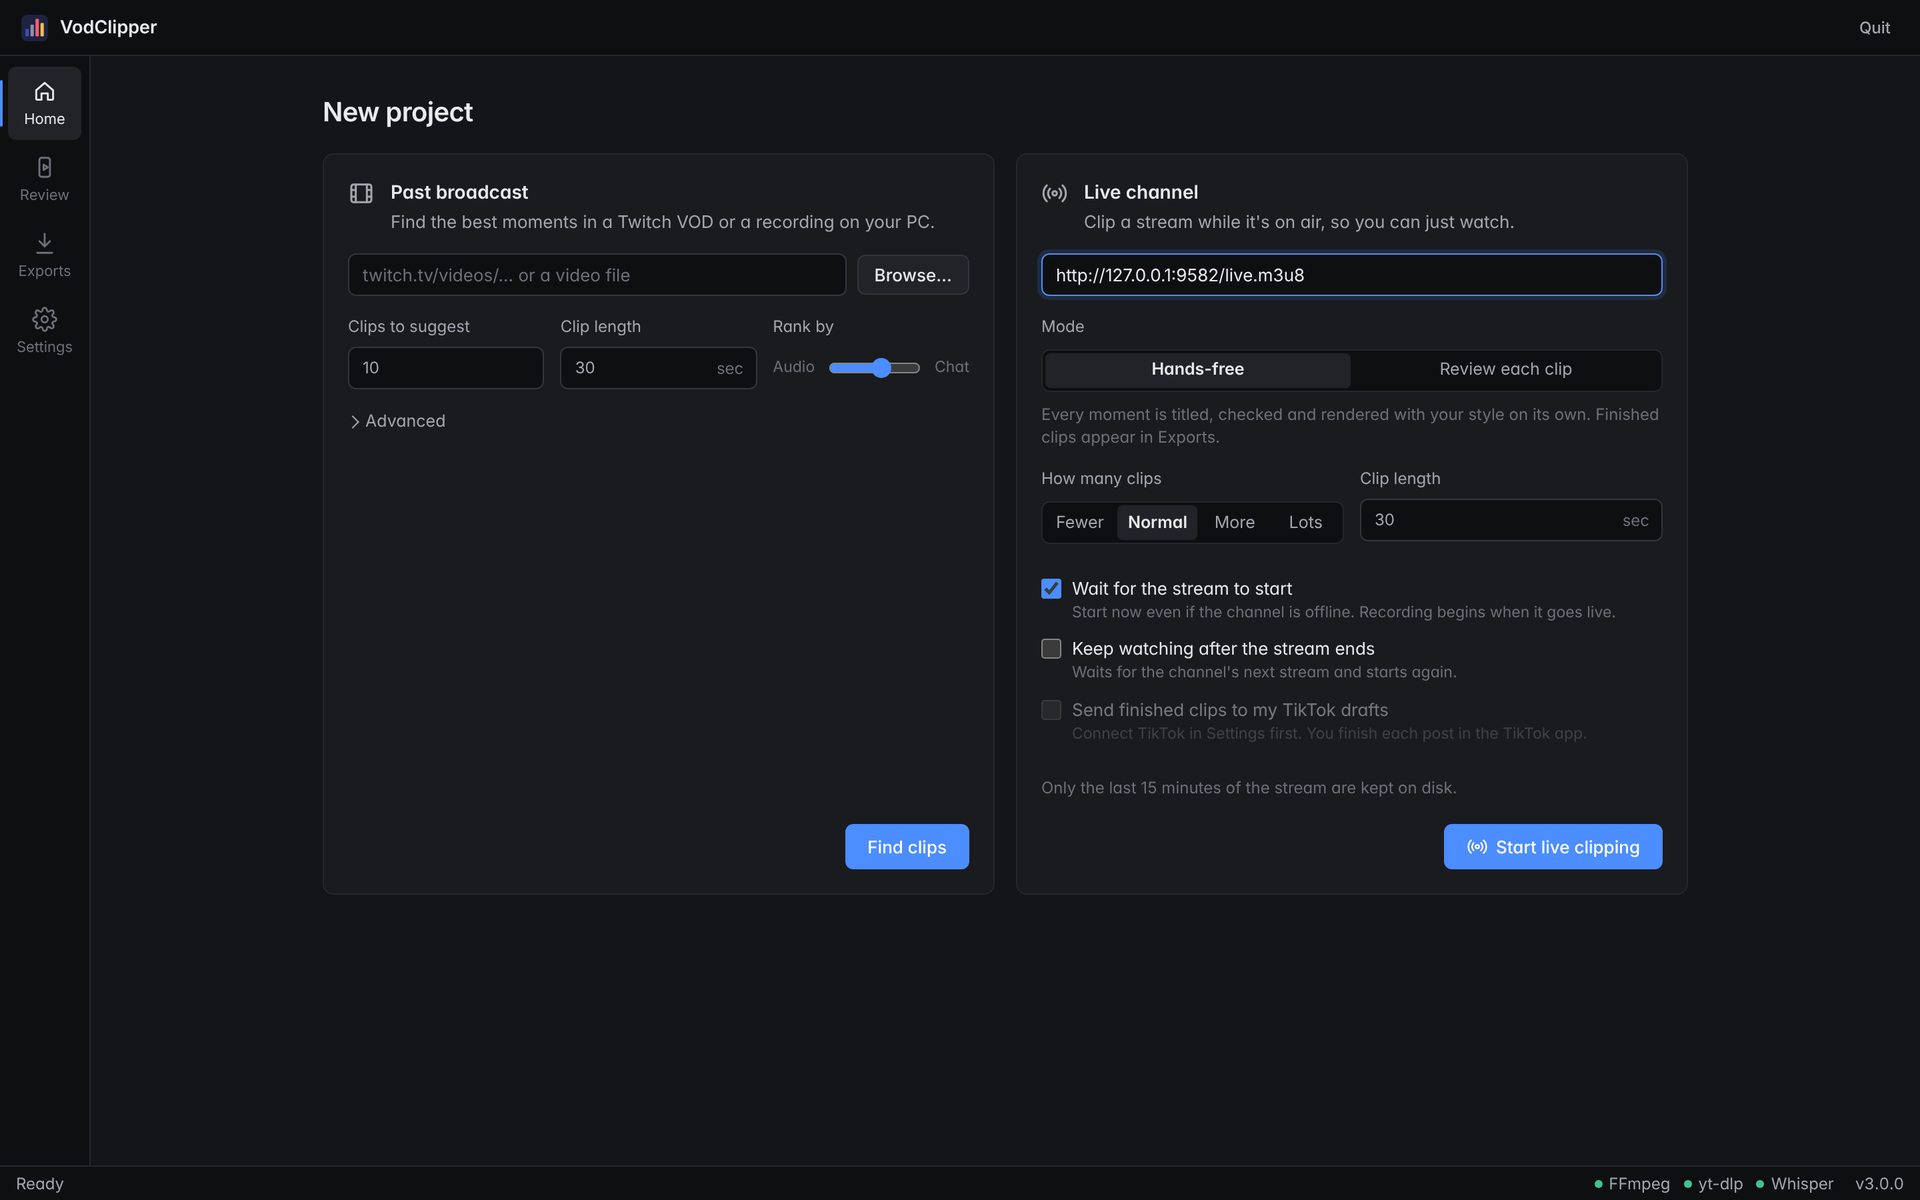
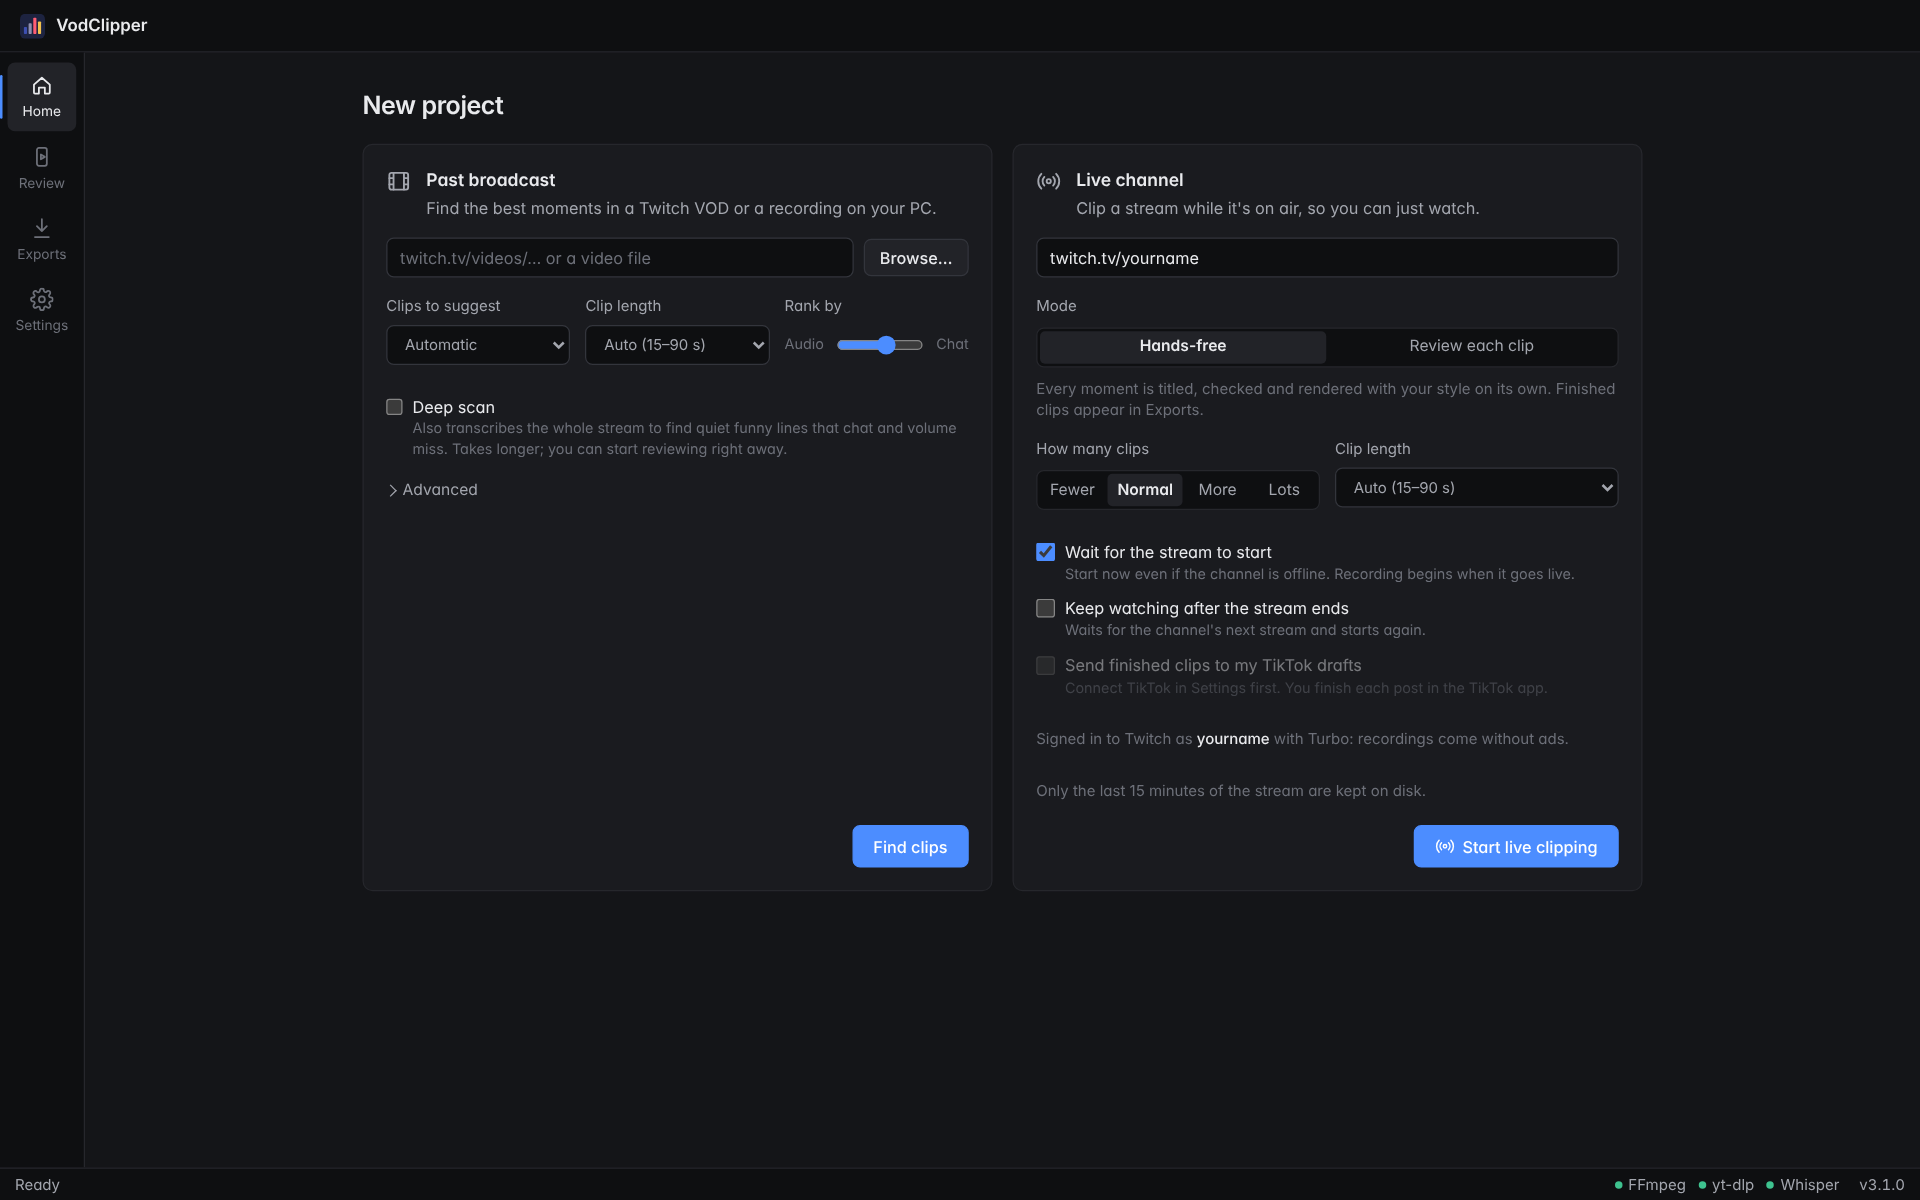
VodClipper 3.1.1: no live moment from the first minute of a stream
Also a fresh Home screenshot in the README.

Claude-Session: https://claude.ai/code/session_01357c6G4ctRPY48nArBsYjA

diff --git a/tests/e2e.py b/tests/e2e.py
@@ -268,7 +268,8 @@ def main():
                 diag["segment list"] = open(os.path.join(segdir0, lst[0]), encoding="utf-8", errors="replace").read()[-600:]
         rec("chat connected", wait(lambda: get(f"/api/live/{sid}")["chat_connected"], 30))
         first = wait(lambda: (lambda c: c if c else None)(get(f"/api/live/{sid}")["clips"]), 150, 2)
-        rec("found a moment automatically", first, first and f"{first[0]['reason']} at {first[0]['at']}s")
+        rec("found a moment automatically", first and all(c["at"] >= 30 for c in first if not c.get("manual")),
+            first and f"{first[0]['reason']} at {first[0]['at']}s")
         clipped = post(f"/api/live/{sid}/clip", {"seconds": 20})
         rec("clip-that request accepted", clipped.get("pending_manual", 0) >= 1 or len(clipped.get("clips", [])) >= 2,
             clipped.get("error", ""))

diff --git a/src/live.py b/src/live.py
@@ -782,8 +782,9 @@ class LiveSession:
         lo = max(0, int(self._scan_from))
         gap = max(self.min_gap, 15.0)
         scanned = lo
+        edge = min(60.0, self.warmup)          # the first minute: "starting soon", chat saying hi
         for i in range(lo, max(lo, limit)):
-            if s[i] < self.threshold:
+            if s[i] < self.threshold or i < edge:
                 scanned = i + 1
                 continue
             a, b = max(0, i - win), min(n, i + win + 1)

diff --git a/src/version.py b/src/version.py
@@ -1,1 +1,1 @@
-VERSION = "3.1.0"
+VERSION = "3.1.1"

diff --git a/README.md b/README.md
@@ -3,7 +3,7 @@
 </p>
 
 <p align="center">
-  <a href="https://github.com/allen1versonfr/vodclipper/releases/latest"><img alt="Version 3.1.0" src="https://img.shields.io/badge/version-3.1.0-4c8dff?style=flat-square"></a>
+  <a href="https://github.com/allen1versonfr/vodclipper/releases/latest"><img alt="Version 3.1.1" src="https://img.shields.io/badge/version-3.1.1-4c8dff?style=flat-square"></a>
   <a href="https://github.com/allen1versonfr/vodclipper/actions/workflows/build.yml"><img alt="Build and test" src="https://img.shields.io/github/actions/workflow/status/allen1versonfr/vodclipper/build.yml?branch=main&style=flat-square&label=build"></a>
   <img alt="Windows 10 and 11" src="https://img.shields.io/badge/platform-Windows%2010%20%7C%2011-1f2329?style=flat-square">
   <img alt="Built with Python" src="https://img.shields.io/badge/python-3.12-1f2329?style=flat-square">
@@ -61,7 +61,7 @@ VodClipper watches a Twitch stream the way your chat does. It finds the moments 
 <table>
   <tr>
     <td width="50%"><img src="docs/images/live.png" alt="Hands-free live clipping: moments are titled, checked and rendered while the stream runs"><p align="center"><sub><b>Hands-free live:</b> clips render on their own while you watch</sub></p></td>
-    <td width="50%"><img src="docs/images/home.png" alt="Home: past broadcast or live channel with hands-free options"><p align="center"><sub><b>Home:</b> hands-free mode, how many clips, wait for the stream</sub></p></td>
+    <td width="50%"><img src="docs/images/home.png" alt="Home: automatic clip count and length, Deep scan, and ad-free live clipping"><p align="center"><sub><b>Home:</b> automatic clip count and length, Deep scan, ad-free live</sub></p></td>
   </tr>
   <tr>
     <td width="50%"><img src="docs/images/content-check.png" alt="Content check settings with censoring"><p align="center"><sub><b>Content check:</b> flag, hide, mute or bleep</sub></p></td>

diff --git a/CHANGELOG.md b/CHANGELOG.md
@@ -3,6 +3,11 @@
 All notable changes to VodClipper are documented here.
 The format follows [Keep a Changelog](https://keepachangelog.com/en/1.1.0/), and the project uses [Semantic Versioning](https://semver.org/).
 
+## [3.1.1] - 2026-10-13
+
+### Fixed
+- Live mode no longer makes a "moment" out of the first minute of a stream, when chat is just saying hi.
+
 ## [3.1.0] - 2026-10-13
 
 Smarter clip finding, and live recording without ads.
